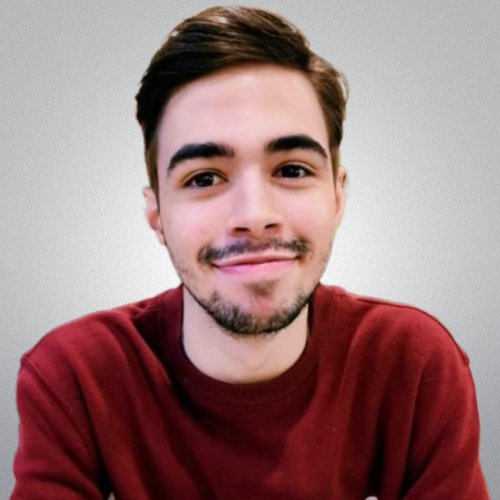
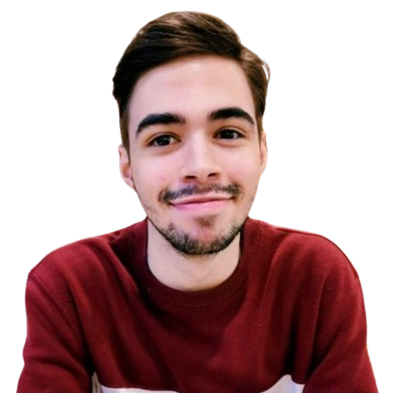
organizando as pastas, adicionando estilos e components

diff --git a/src/assets/sass/components/Navbar.sass b/src/assets/sass/components/Navbar.sass
@@ -1,4 +1,5 @@
 @use "../variables"
+@use "../mixins"
 .Navbar
     width:100%
     background-color: variables.$bg-sec-color
@@ -8,8 +9,11 @@
     align-items: center
 
     p
-        width: 50px
+        @include mixins.colors
+        
+        width: 70px
         font-weight: bold
+        margin: 0em 1em
 
     ul
         display: flex
@@ -21,7 +25,7 @@
 
             a
                 text-decoration: none
-                font-size: 15px
+                font-size: 13px
                 font-weight: bold
             
         

diff --git a/src/components/sections/Home.jsx b/src/components/sections/Home.jsx
@@ -1,11 +1,11 @@
-//components
-import foto from "../../assets/img/foto2.png"
+//images
+import foto from "../../assets/img/foto.png"
 
 //style
 import "../../assets/sass/components/Home.sass";
 
 // eslint-disable-next-line react/prop-types
-const Home = ({title, date}) => {
+const Home = () => {
 
   
 
@@ -14,8 +14,6 @@ const Home = ({title, date}) => {
       <img src={foto} alt=""/>
       <p>Olá, eu sou sou Johann</p>
       <h1>Desenvolvedor Front-end</h1>
-      
-      <p>{title} {date}</p>
       </div>
   );
 };

diff --git a/src/App.jsx b/src/App.jsx
@@ -2,7 +2,10 @@
 import Home from "./components/sections/Home"
 import Navbar from "./components/sections/Navbar"
 import About from "./components/sections/About"
+import Skills from "./components/sections/Skills"
+import Projects from "./components/sections/Projects"
 import Footer from "./components/sections/Footer"
+
 
 //style
 import "./App.sass"
@@ -15,7 +18,8 @@ const App = () => {
      <Navbar />
     <Home title="oi" date="21"/>
     <About/>
-    
+    <Skills/>
+    <Projects/>
     <Footer/>
     </div>
   )

diff --git a/src/assets/sass/components/Home.sass b/src/assets/sass/components/Home.sass
@@ -2,9 +2,8 @@
 @use '../mixins'
 
 .home
-    display: flex
+    @include mixins.center
     flex-direction: column
-    align-items: center
     margin: 1em
 
     h1
@@ -13,7 +12,6 @@
         margin: 0.5em
     
     p  
-        
         font-size: 20px
 
     img
@@ -22,5 +20,4 @@
         border-radius: 10%
         margin: 0.5em
     
-
         

diff --git a/src/assets/sass/mixins.sass b/src/assets/sass/mixins.sass
@@ -5,6 +5,11 @@
      -webkit-background-clip: text
      -webkit-text-fill-color: transparent
 
-@mixin image($img)
-     background-image: url('../img/#{$img}')
+@mixin center
+
+     display: flex
+     align-items: center
+     justify-content: center
+
+   
      

diff --git a/src/components/sections/Projects.jsx b/src/components/sections/Projects.jsx
@@ -7,7 +7,7 @@ const Projects = () => {
     return(
 
         <div>
-
+            <p>projects</p>
         </div>
     )
 }

diff --git a/src/components/sections/Skills.jsx b/src/components/sections/Skills.jsx
@@ -7,6 +7,7 @@ const Skills = () =>{
     return(
 
         <div>
+            <p>skills</p>
         </div>
     )
 }
